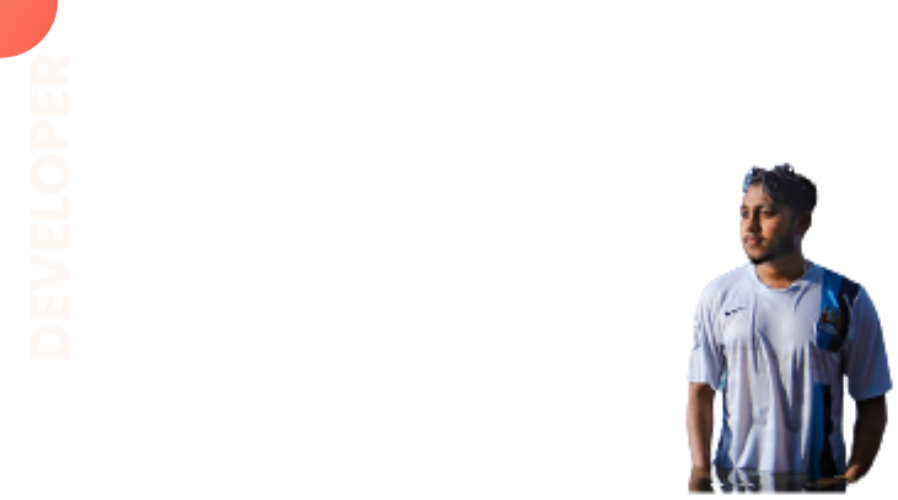
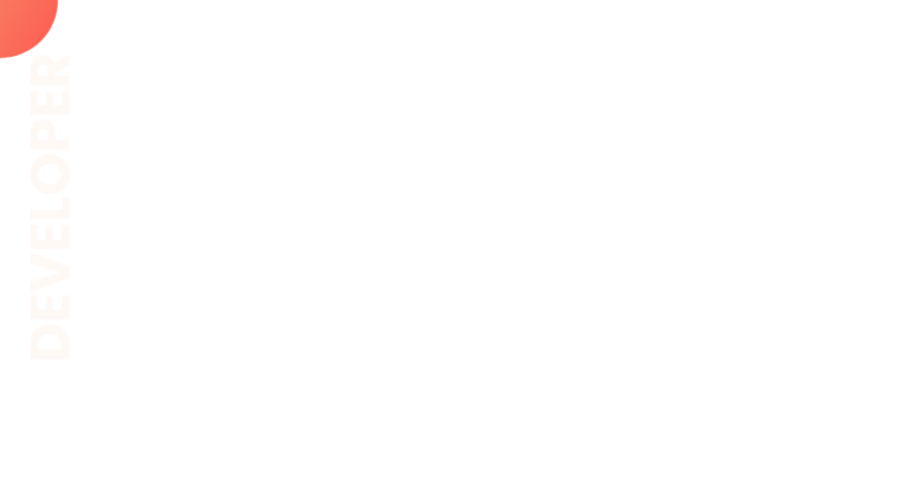
Dream

Changed region(s): [[0.7483, 0.33, 0.9978, 0.99]]

diff --git a/index.html b/index.html
@@ -29,6 +29,20 @@
             <img src="my-bg.png" alt="" srcset="">
         </div>
     </section>
+    <section class="Dream">
+        <div class="dream-big">
+            <img src="my-bg2.png" alt="">
+        </div>
+        <div class="dream-big">
+            <h1>Dream Big</h1>
+            <h3>Become a web developer</h3>
+            <p>At first web developing wasn't my dream. After watching my cousins and some successful career video then
+                i decide, why shouldn't i give a try? it's fun. So that's how it's became my dream.</p>
+            <a target="_blank"
+                href="https://docs.google.com/document/d/1EKJuMc-TCioy0kczJJ3OH63Wpqe8RTIDv_wkmOLpXn0/edit">Download
+                here</a>
+        </div>
+    </section>
 </body>
 
 </html>

diff --git a/style.css b/style.css
@@ -1,5 +1,6 @@
 body{
     font-family: 'Poppins', sans-serif;
+    margin: 0;
 }
 h1{
     font-size: 50px;
@@ -11,6 +12,8 @@ span{
     display: flex;
     margin-left: 10px;
     padding-right: 20%;
+    background-image: url(top-banner.png);
+    background-repeat: no-repeat;
 }
 .introduction img{
 width: 185%;
@@ -23,4 +26,18 @@ a{
     padding: 5px 10px;
     font-weight: 600;
     color: white;
+}
+.dream-big{
+    padding-left: 10%;
+    padding-right: 12%;
+}
+.dream-big img{
+width: 180%;
+}
+.Dream{
+    display: flex;
+    margin-top: 80px;
+    background-image: url(dream-bg.png);
+    background-repeat: no-repeat;
+    background-position: right;
 }
